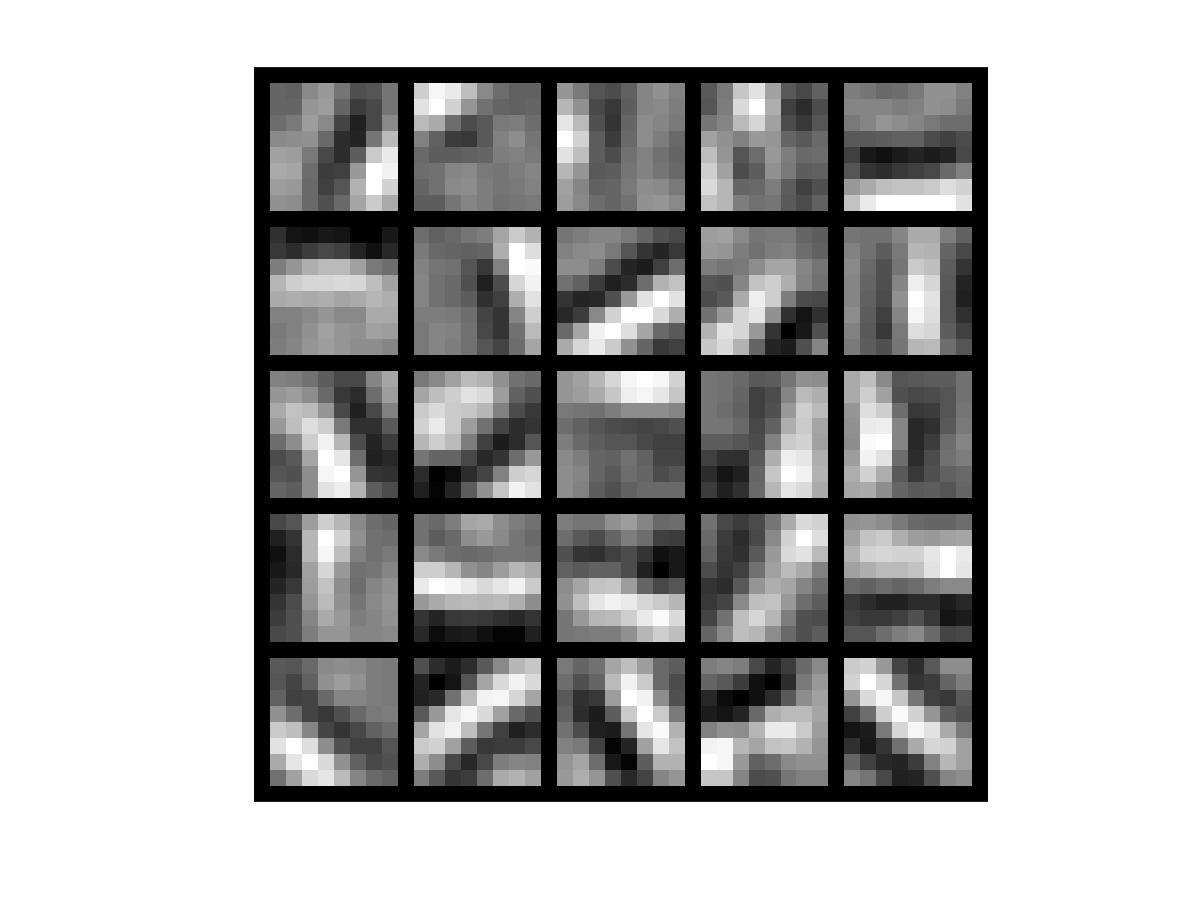
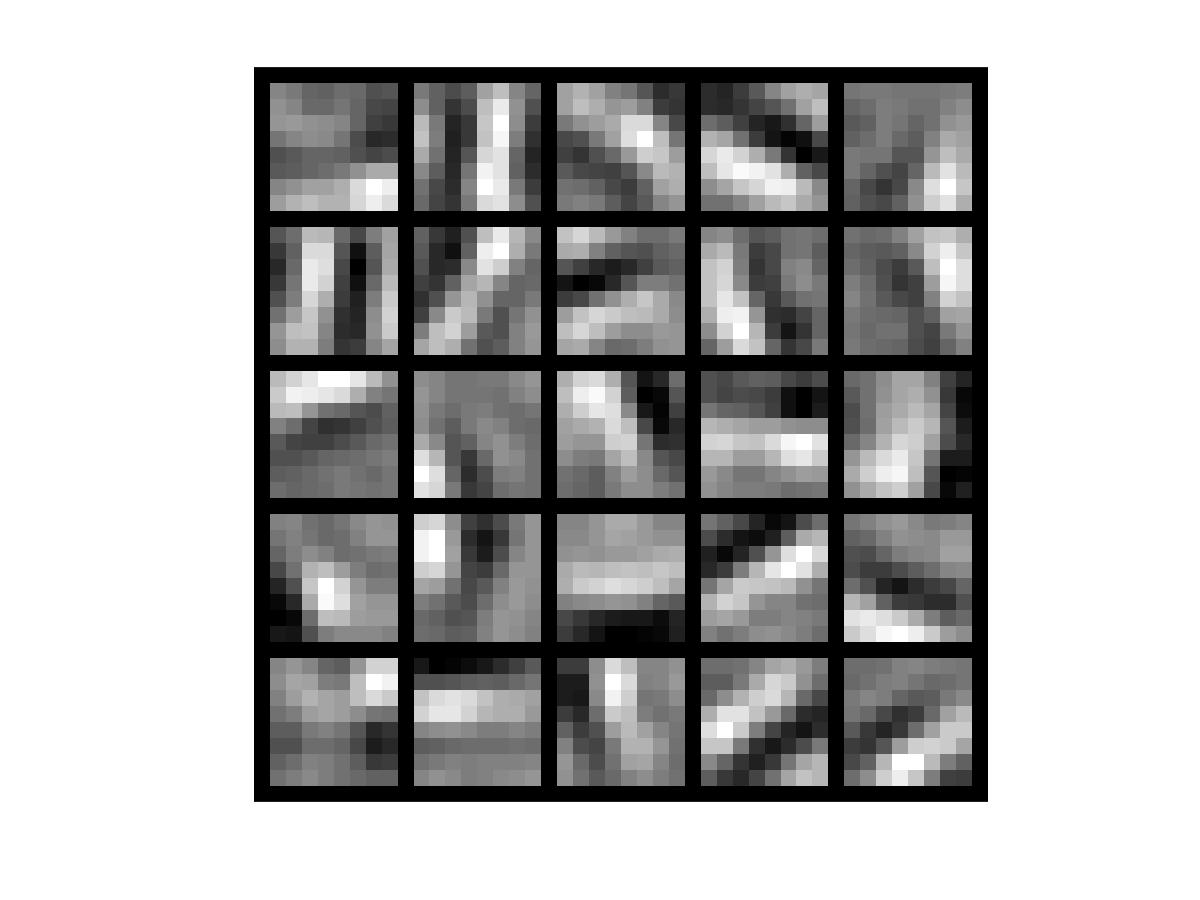
update train.m

Changed region(s): [[0.2158, 0.0933, 0.8325, 0.8711]]

diff --git a/vectorization/train.m b/vectorization/train.m
@@ -30,7 +30,7 @@ numpatches = 10000;
 %  display a random sample of 200 patches from the dataset
 
 patches = sampleIMAGES(numpatches);
-%display_network(patches(:,randi(size(patches,2),200,1)),8);
+display_network(patches(:,randi(size(patches,2),200,1)),8);
 
 
 %  Obtain random parameters theta
@@ -124,7 +124,7 @@ options.display = 'on';
 %% STEP 5: Visualization
 
 W1 = reshape(opttheta(1:hiddenSize*visibleSize), hiddenSize, visibleSize);
-%display_network(W1', 12);
+display_network(W1', 12);
 
 print -djpeg weights.jpg   % save the visualization to a file
 
